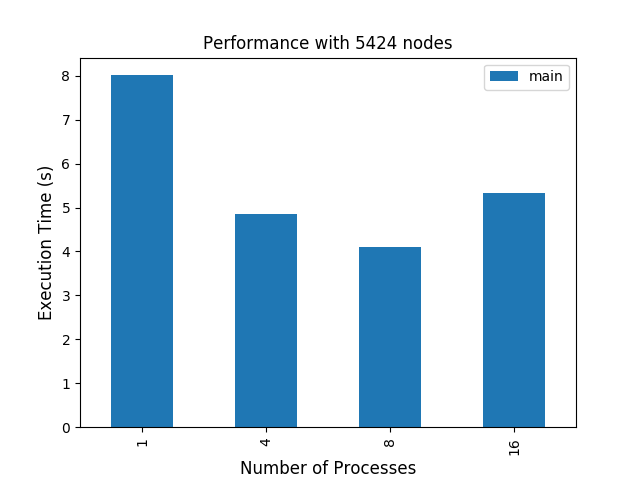
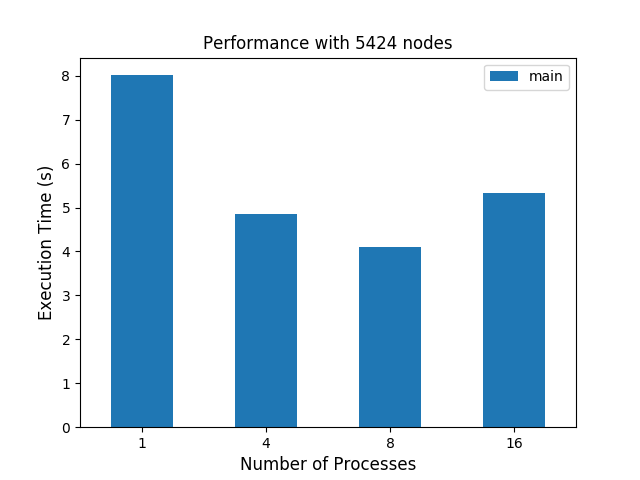
Rotate label for x axis

Changed region(s): [[0.375, 0.9062, 0.6562, 1.0], [0.7812, 0.9062, 0.8125, 0.9688], [0.2188, 0.9062, 0.25, 0.9375]]

diff --git a/lab4/stats_gen.py b/lab4/stats_gen.py
@@ -20,7 +20,7 @@ def gen_graph(data, node_size):
     plt.title('Performance with {} nodes'.format(node_size), fontsize=12)
     plt.xlabel('Number of Processes', fontsize=12)
     plt.ylabel('Execution Time (s)', fontsize=12)
-    ax.set_xticklabels(PROC_SIZES, fontsize=10)
+    ax.set_xticklabels(PROC_SIZES, rotation='horizontal', fontsize=10)
     plt.savefig('./stats/{}-fig.png'.format(data_size))
 
 for i in range(len(DATA_SIZES)):
